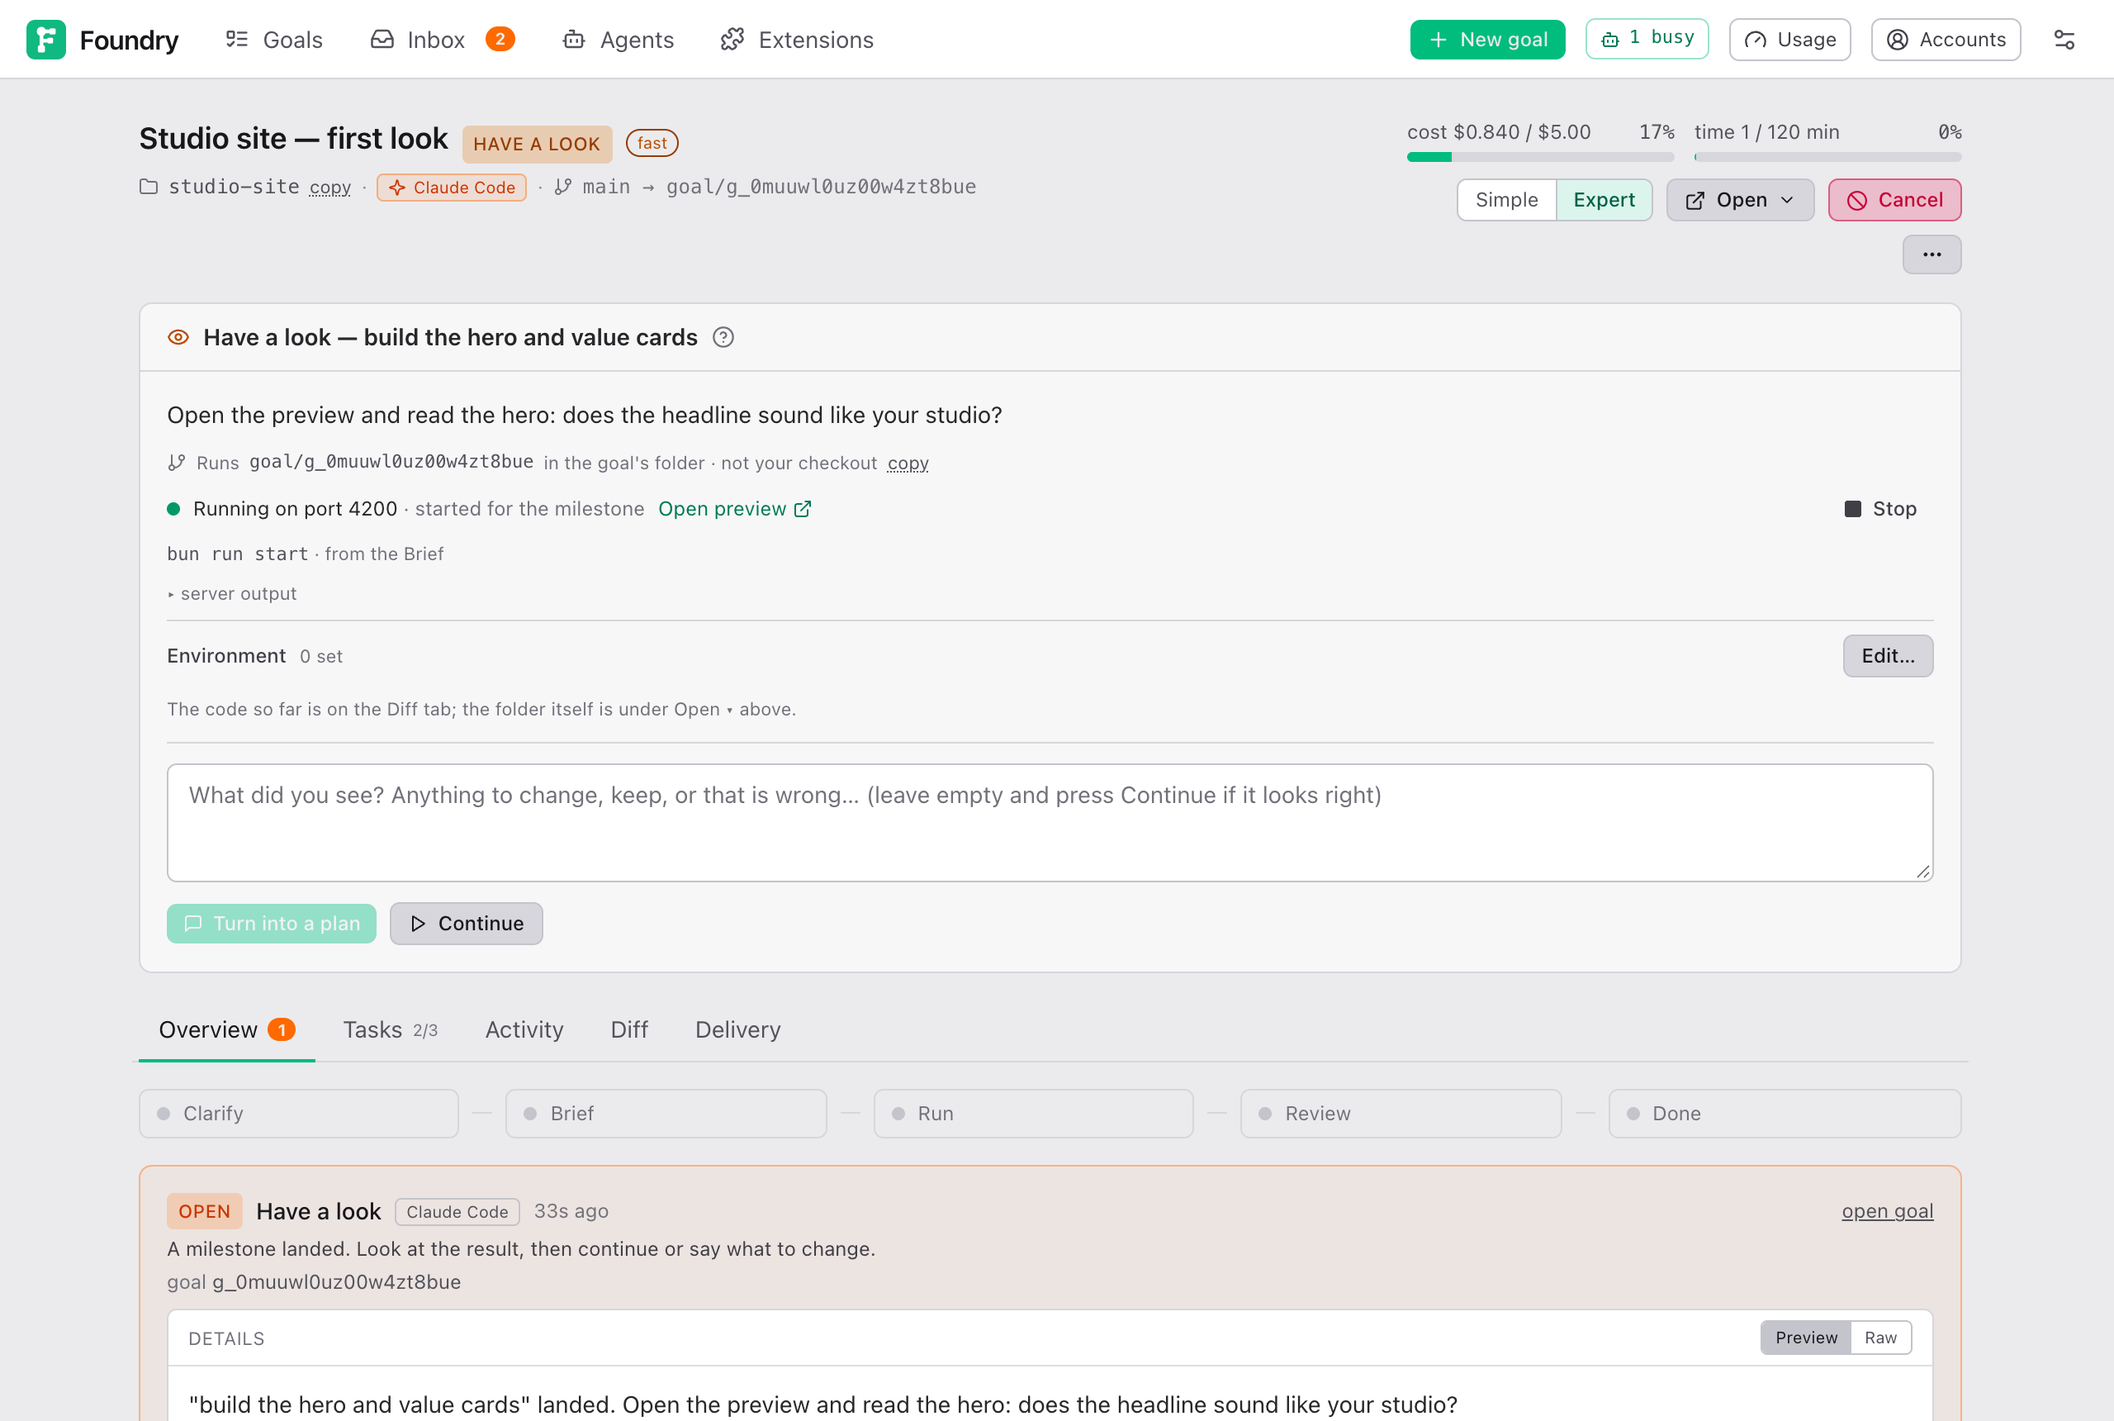
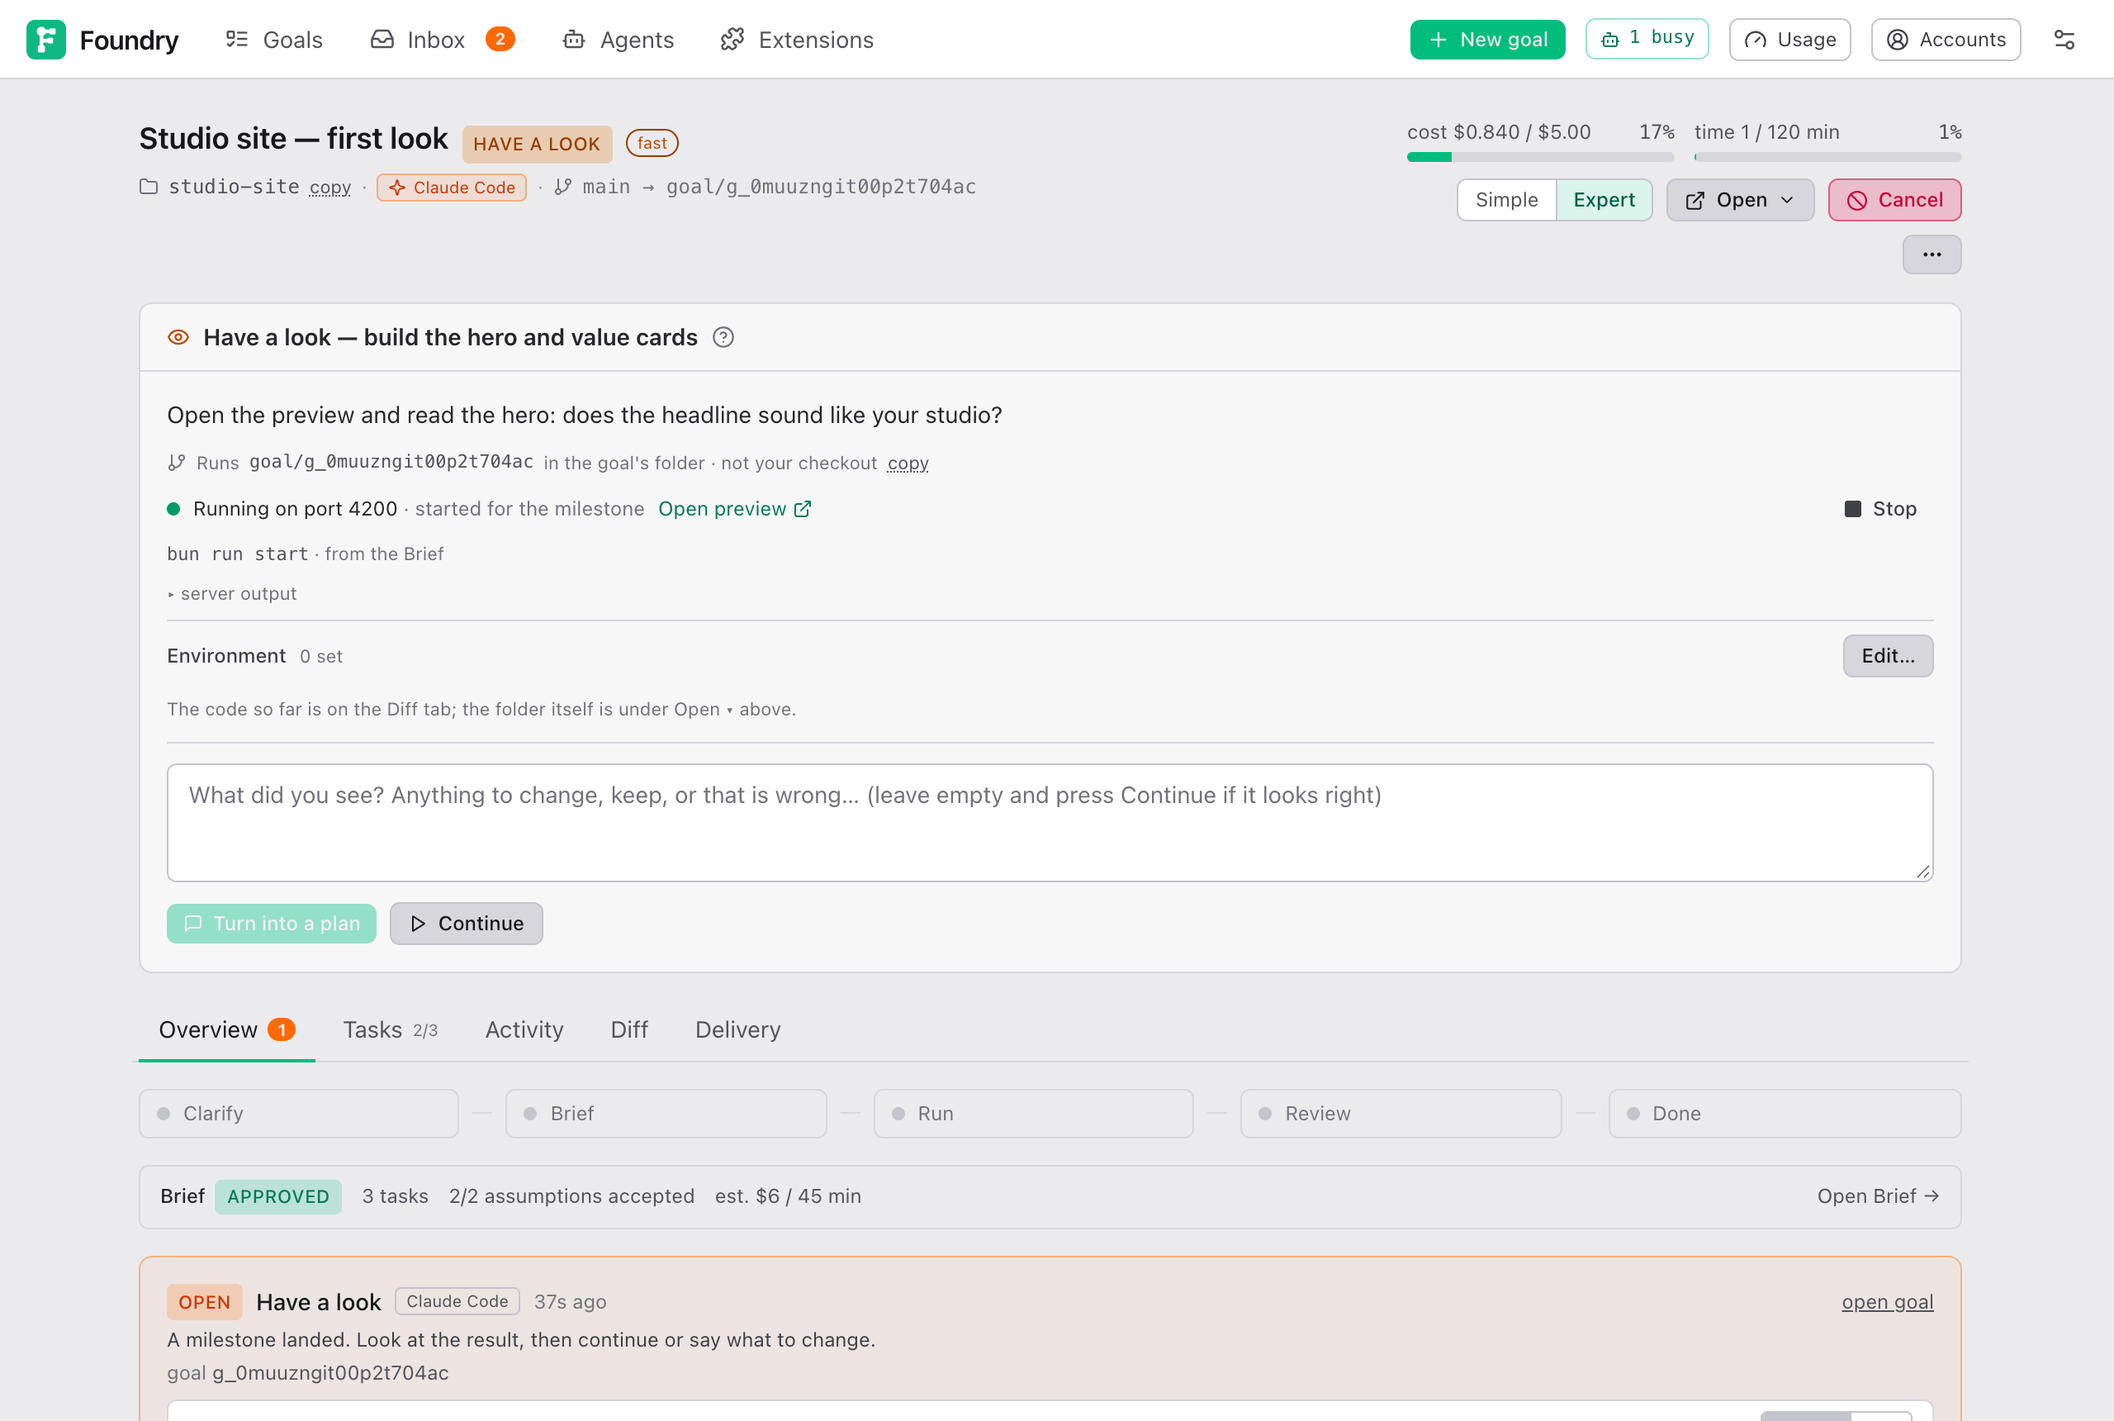
docs: describe Workspace & preview, the Brief line on the Overview and the Brief's section list
The guide (English and Chinese) follows the merged card, the branch note under the preview menu, the one-line Brief summary and the section list on the Brief page; the Overview, Brief and milestone screenshots are refreshed.

diff --git a/docs/guide/while-it-runs.zh.md b/docs/guide/while-it-runs.zh.md
@@ -59,15 +59,14 @@ goal 标题栏里的 **Simple | Expert** 用来切换视图，两种视图下它
 从上到下：
 
 - **时间线**：**Clarify → Brief → Run → Review → Done**（或 **Over-delivered**）；goal 要推送或开 pull request 时还有 **Deliver · mode**。当前阶段会闪动。点一个阶段，就跳到显示它工作内容的地方。
+- **Brief**：时间线下方的一行，比如 **Brief APPROVED · 36 tasks · 11/11 assumptions accepted · 9/12 questions answered · est. $380 / 1500 min**。点它打开 Brief 页面，Understanding 和 Clarifier 写的其它内容都在那里。
 - **What needs you**：和 Inbox 里一样的卡片，带按钮。
 - **goal**：你最初的描述。面板角上的 **Open full**（两个斜向箭头的图标）会在更大的窗口里显示它。
 - **Attachments**：紧跟在 goal 下面，和 New goal 表单上一样。随时可以再加；新的会话会收到。
-- **Try the work in progress**：进度文件夹。见 [下文](#进度文件夹)。
-- **Preview**：启动并打开运行中的结果。见 [Preview](#preview)。
+- **Workspace & preview**：goal 的工作成果在哪里，以及启动它来试用。见 [进度文件夹](#进度文件夹) 和 [Preview](#preview)。
 - **Model fallback**：只在某个模型不可用、Foundry 换了另一个模型时出现。
 - **Project skills**：Foundry 为你项目的技术栈添加的 skill，按 Frontend、Backend、Database、Testing、Tooling 分组，并显示数量。它们不会进入你的提交。
 - **Completion**：文档、知识图谱刷新和媒体文件各占一行，写着结果。见 [完成后的附加项](./getting-the-result.zh.md#完成后的附加项)。
-- **Brief**：你批准的内容摘要，按 **open** 看全文。
 - **Goal review**：最终审查员的结论和意见（运行过之后才有）。
 - **Acceptance**（右侧）：每个 **must** 和 **stretch** 检查及其最新结果，比如 **3/4 passing**。点一个检查可以看它的输出。下面是 **Self-check** 开关和它最近一次的结果（见 [Self-check](#self-check)）。
 
@@ -125,17 +124,17 @@ Projects/
 
 进度文件夹以 goal 的标题（到第一个标点为止，最多 40 个字符）加上 goal id 的最后 6 个字符命名。里面是你的整个项目加上 goal 目前的工作：也就是 goal 的分支，已经检出。随时都可以打开、运行、阅读。并行运行的任务在各自隐藏的文件夹里工作，检查通过后再合并到这里。你可以在 [Settings → Engine (install)](./settings.zh.md#engine-install) 里改变进度文件夹的创建位置。
 
-Overview 标签上的 **Try the work in progress** 卡片显示文件夹路径（带 **copy**）、最新提交，以及现成可复制的命令：在那里打开终端并启动项目。
+Overview 标签上 **Workspace & preview** 卡片的顶部写着 worker 提交到哪个分支、最新提交，并带 **Open ▾**。展开 **Run it yourself** 有现成可复制的命令：在那里打开终端并启动项目。合并后文件夹被清理掉，这一部分就不再显示，下面预览那一行会写明预览在哪里运行。
 
 注意：因为这个文件夹*就是* goal 的分支，你没法在自己的文件夹里也切换到这个分支。要把结果放进你的文件夹，见 [拿到结果](./getting-the-result.zh.md#把结果放进你自己的文件夹)。
 
 ### The Open menu
 
-**Open ▾**（在 goal 页面和 Try the work in progress 卡片上）列出两个地方：**Repository**（你自己的文件夹）和 **Goal workspace**（进度文件夹）。每个地方都提供它在你电脑上找到的编辑器、文件管理器和终端，比如 VS Code、Cursor、Finder、Terminal。点一个，就用它打开那个地方。**path** 复制路径。
+**Open ▾**（在 goal 页面和 Workspace & preview 卡片上）列出两个地方：**Repository**（你自己的文件夹）和 **Goal workspace**（进度文件夹）。每个地方都提供它在你电脑上找到的编辑器、文件管理器和终端，比如 VS Code、Cursor、Finder、Terminal。点一个，就用它打开那个地方。**path** 复制路径。
 
 ## Preview
 
-**Preview** 卡片启动结果，让你在浏览器里试用。
+**Workspace & preview** 卡片的下半部分启动结果，让你在浏览器里试用。
 
 - **Start preview** 在进度文件夹里运行项目的启动命令。卡片会显示是哪条命令，以及它来自 Brief 的 **How to run it** 还是 `package.json`。如果项目依赖还没安装（有 `package.json` 但没有 `node_modules`），Foundry 会先安装；输出里也能看到安装过程。
 - 出现 **Running on port N** 后，按 **Open preview** 打开。**Stop** 停止它。命令启动的其他服务器会显示在 **Also serving** 下（见 [Where it runs](#where-it-runs)）。
@@ -168,7 +167,7 @@ Foundry 也会在里程碑时自己启动预览；预览在运行时，每个任
 
 卡片顶部写着运行的是哪个分支、在哪里运行，以及 **not your checkout**。goal 还在进行时，预览运行的是 goal 自己的那份仓库（它的进度文件夹，在 goal 的分支上），所以你看到的是 goal 做的成果，而不是你自己文件夹里的内容。**copy** 复制那个文件夹的路径。
 
-goal 完成后，分支变成一个下拉菜单，可以选 goal 分支、基础分支（比如 `main`）或你自己的其他本地分支；要换分支，先停掉预览。goal 分支以外的分支都在 Foundry 自己的预览文件夹里运行，checkout 到那个分支的最新提交，绝不会用你的 checkout。合并后 Foundry 会清理 goal 的文件夹并删除它的分支，这时预览改为运行基础分支（合并后的成果就在那里），并有一行琥珀色提示说明。
+goal 完成后，分支变成一个下拉菜单，下面一行说明选中的分支是什么（goal 的文件夹、带有合并成果的基础分支……），可以选 goal 分支、基础分支（比如 `main`）或你自己的其他本地分支；要换分支，先停掉预览。goal 分支以外的分支都在 Foundry 自己的预览文件夹里运行，checkout 到那个分支的最新提交，绝不会用你的 checkout。合并后 Foundry 会清理 goal 的文件夹并删除它的分支，这时预览改为运行基础分支（合并后的成果就在那里），并有一行琥珀色提示说明。
 
 如果启动命令除了 Foundry 分配端口的那个服务器之外还启动了别的（比如一个 demo 脚本同时启动 web 应用、管理后台和 API，或者 `turbo dev`），Foundry 会找出它们监听的端口，把能响应网页请求的列在 **Also serving** 下，按各自的 package 名（或所在文件夹）命名，每个都有自己的链接。它用到的所有端口都不会再分给其他 goal 的预览。
 

diff --git a/docs/guide/while-it-runs.md b/docs/guide/while-it-runs.md
@@ -59,15 +59,14 @@ In Simple view the goal page shows:
 From top to bottom:
 
 - **The timeline**: **Clarify → Brief → Run → Review → Done** (or **Over-delivered**), plus **Deliver · mode** if the goal pushes or opens a pull request. The current stage pulses. Click a stage to jump to where its work is shown.
+- **Brief**: one line under the timeline, for example **Brief APPROVED · 36 tasks · 11/11 assumptions accepted · 9/12 questions answered · est. $380 / 1500 min**. Click it to open the Brief, where the Understanding and everything else the Clarifier wrote are.
 - **What needs you**: the same cards as in the Inbox, with their buttons.
 - **goal**: your original description. **Open full**, the icon with two diagonal arrows in its corner, reads it in a larger window.
 - **Attachments**: right under the goal, as on the New goal form. You can add more at any time; new sessions receive them.
-- **Try the work in progress**: the progress folder. See [below](#the-progress-folder).
-- **Preview**: start and open the running result. See [Preview](#preview).
+- **Workspace & preview**: where the goal's work is, and starting it to try it. See [The progress folder](#the-progress-folder) and [Preview](#preview).
 - **Model fallback**: only if a model was unavailable and Foundry switched to another one.
 - **Project skills**: skills Foundry added for your project's technology, grouped as Frontend, Backend, Database, Testing and Tooling, with how many there are. They never reach your commits.
 - **Completion**: one row each for the documents, the graph refresh and media files, with how it went. See [Completion extras](./getting-the-result.md#completion-extras).
-- **Brief**: a summary of what you approved, with **open** to read it in full.
 - **Goal review**: the final reviewer's verdict and notes, once it ran.
 - **Acceptance** (on the right): every **must** and **stretch** check with its latest result, for example **3/4 passing**. Click a check to see its output. Below them, the **Self-check** switch and its latest result (see [Self-check](#self-check)).
 
@@ -125,17 +124,17 @@ Projects/
 
 The progress folder is named after the goal's title (up to its first punctuation mark, at most 40 characters) plus the last 6 characters of the goal's id. It contains your whole project with the goal's work so far: the goal's branch, checked out. Open it, run it, read it, at any time. Tasks that run in parallel work in their own hidden folders and are merged in here when their checks pass. You can move where progress folders are created in [Settings → Engine (install)](./settings.md#engine-install).
 
-The **Try the work in progress** card on the Overview tab shows the folder's path with **copy**, the latest commit, and ready-to-copy commands to open a terminal there and start the project.
+The top of the **Workspace & preview** card on the Overview tab says which branch the workers commit to and the latest commit, with **Open ▾**. **Run it yourself** unfolds ready-to-copy commands to open a terminal there and start the project. Once the folder is cleaned up after a merge, this part disappears and the preview line below says where the preview runs instead.
 
 Note: because this folder *is* the goal's branch, you cannot also switch to that branch in your own folder. To get the result into your folder, see [Getting the result](./getting-the-result.md#getting-the-result-into-your-own-folder).
 
 ### The Open menu
 
-**Open ▾** (on the goal page and on the Try the work in progress card) lists two places: **Repository** (your own folder) and **Goal workspace** (the progress folder). For each it offers the editors, file managers and terminals it found on your computer, for example VS Code, Cursor, Finder, Terminal. Click one to open that place in it. **path** copies the path.
+**Open ▾** (on the goal page and on the Workspace & preview card) lists two places: **Repository** (your own folder) and **Goal workspace** (the progress folder). For each it offers the editors, file managers and terminals it found on your computer, for example VS Code, Cursor, Finder, Terminal. Click one to open that place in it. **path** copies the path.
 
 ## Preview
 
-The **Preview** card starts the result so you can try it in your browser.
+The lower part of the **Workspace & preview** card starts the result so you can try it in your browser.
 
 - **Start preview** runs the project's start command in the progress folder. The card shows which command, and whether it comes from the Brief's **How to run it** or from `package.json`. If the project's dependencies are not installed yet (a `package.json` without `node_modules`), Foundry installs them first; the output shows the install too.
 - **Running on port N**, then **Open preview** opens it. **Stop** stops it. Other servers the command started appear under **Also serving** (see [Where it runs](#where-it-runs)).
@@ -168,7 +167,7 @@ Foundry also starts the preview by itself at a milestone, restarts it after each
 
 The top of the card says which branch runs and where, **not your checkout**. While the goal is being worked on, the preview runs the goal's own copy of the repository (its progress folder, on the goal's branch), so you see the goal's work, not what is in your own folder. **copy** copies that folder's path.
 
-Once the goal is finished, the branch is a menu. Pick the goal branch, the base branch (for example `main`) or another local branch of yours; stop the preview first to change it. Any branch other than the goal's runs in Foundry's own preview folder, checked out at that branch's latest commit, never in your checkout. After a merge Foundry cleans up the goal's folder and deletes its branch; the preview then runs the base branch, which holds the merged work, and an amber line says so.
+Once the goal is finished, the branch is a menu, with a line under it saying what the chosen branch is (the goal's folder, the base branch with the merged work…). Pick the goal branch, the base branch (for example `main`) or another local branch of yours; stop the preview first to change it. Any branch other than the goal's runs in Foundry's own preview folder, checked out at that branch's latest commit, never in your checkout. After a merge Foundry cleans up the goal's folder and deletes its branch; the preview then runs the base branch, which holds the merged work, and an amber line says so.
 
 When the start command launches more servers than the one Foundry gave a port to (a demo script that starts the web app, an admin and an API, or `turbo dev`), Foundry finds the ports they listen on and lists the ones that answer web requests under **Also serving**, each named after its package (or the folder it runs in), with its own link. Every port it uses is kept away from other goals' previews.
 

diff --git a/docs/guide/approving-the-brief.md b/docs/guide/approving-the-brief.md
@@ -18,7 +18,7 @@ You can edit almost everything on the Brief. Take five minutes: this is the chea
 The Brief opens in the view you chose on the New goal form. Switch with **Expert view** or **Simple view** at the top; the choice is remembered for this goal in this browser.
 
 - **Simple view** shows what you need to decide: what Foundry understood, its questions, its assumptions, what you will get, and the price. See [The Simple view of the Brief](#the-simple-view-of-the-brief) at the end of this page.
-- **Expert view** shows everything, in this order: the header, **Understanding**, **Questions**, **Assumptions**, **Decisions**, **Areas**, **Plan**, **Goal acceptance**, **How to run it**, **Completion**, the estimate and budget, and the buttons. The rest of this page follows that order.
+- **Expert view** shows everything, in this order: the header, **Understanding**, **Questions**, **Assumptions**, **Decisions**, **Areas**, **Plan**, **Goal acceptance**, **How to run it**, **Completion**, the estimate and budget, and the buttons. The rest of this page follows that order. A list of these sections runs down the left (on a phone, a row of tabs at the top): click one to jump there. The one you are reading is highlighted, and each says how it stands, for example **Questions 1 blocking**, **Assumptions 2/2** or **Plan 36 tasks**, in amber when it needs you.
 
 ## The top of the page
 
